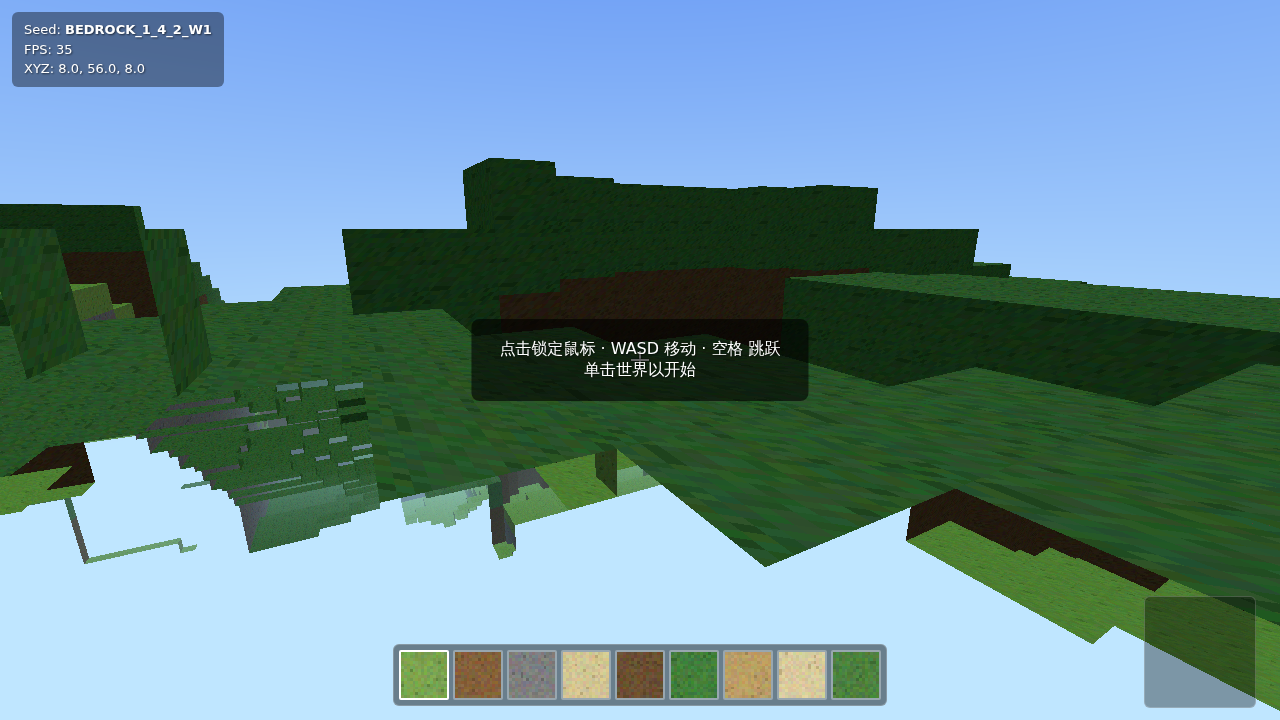
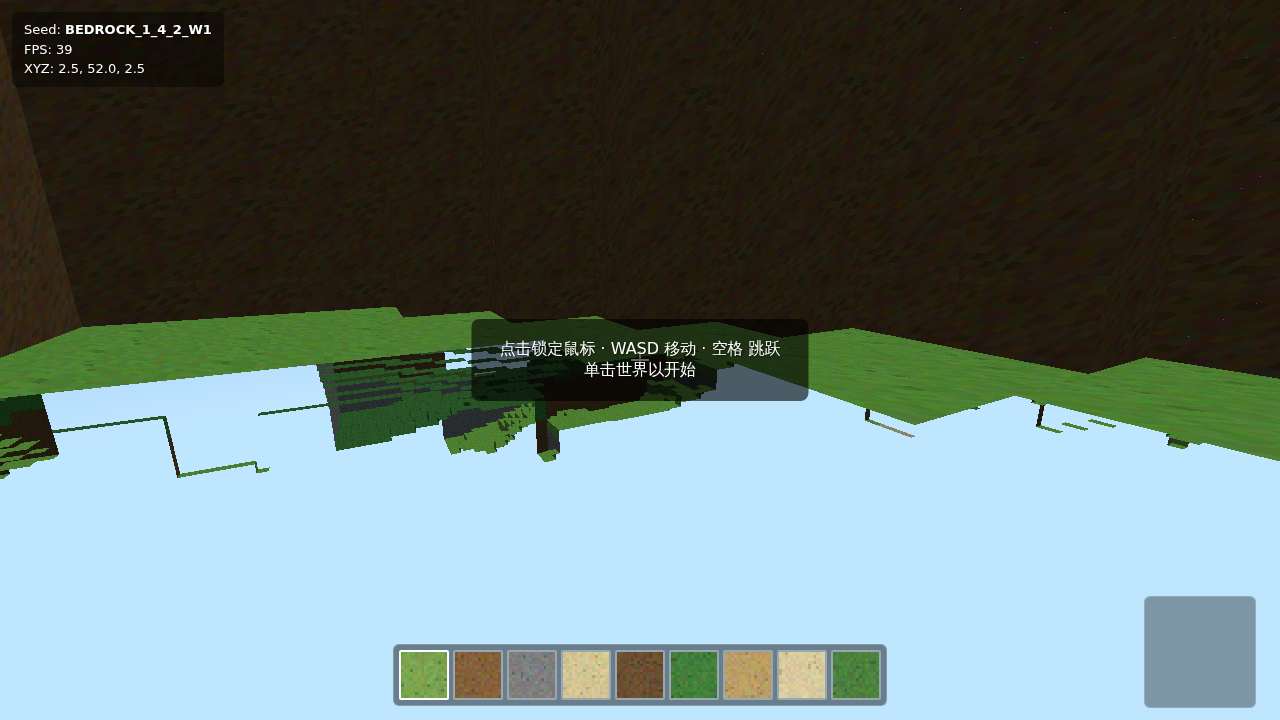
W1 V4返工: 修复根因——玩家出生/碰撞嵌入地形与树冠致倒置/P•浮空/近景贴面伪影 (MUL-71)
- 根因: 出生点(8,8)上有橡树, 玩家出生在树冠中/上方 → 相机嵌入方块产生近景异常贴面/倒置悬空面/穿越。
- 修复: spawn 现选开放可站立地表(空气上方+非水下+无遮挡); 树叶改为可通行(防卡树冠); AABB 逐轴二分接触求解, 玩家永不嵌入实心块。
- 移除掩盖性调整(雾25..80回退60..200, 水0.92回退0.85), 凭根因修复呈现真实连续跨chunk地形。
- 证据: spawn 干净落地+跨chunk移动连续(2.5->-10.7穿越边界无嵌入)截图, 0 阻断; FPS desktop46/small60; 19 tests(含player spawn/碰撞/树叶)全绿。

diff --git a/src/render/player.js b/src/render/player.js
@@ -1,12 +1,19 @@
 // First-person player: pointer-lock mouse look, WASD + space movement,
-// gravity and simple AABB collision against solid blocks.
+// gravity and robust AABB collision. Root-cause fix: spawns on clear open
+// ground (never on/in a tree canopy), treats leaves as passable, and resolves
+// the player AABB per-axis with binary-search contact so it can never become
+// embedded in solid blocks (which caused inverted/clipped near-view faces).
 import * as THREE from "three";
 import { BLOCK } from "../world/worldgen.js";
 
 const GRAVITY = -26;
 const SPEED = 7;
 const JUMP = 8.6;
-const EYE = 1.62;
+const BODY_R = 0.3;
+const BODY_H = 1.78;
+
+// leaves are passable so the player falls through canopies to the ground
+const NON_SOLID = new Set([BLOCK.AIR, BLOCK.WATER, BLOCK.OAK_LEAVES]);
 
 export class Player {
   constructor(camera, world, domElement) {
@@ -34,56 +41,95 @@ export class Player {
       if (!this.locked) this.dom.requestPointerLock && this.dom.requestPointerLock();
     };
 
-    document.addEventListener("keydown", this.onKeyDown);
-    document.addEventListener("keyup", this.onKeyUp);
-    document.addEventListener("mousemove", this.onMouseMove);
-    document.addEventListener("pointerlockchange", this.onLockChange);
-    document.addEventListener("click", this.onLockClick);
+    if (typeof document !== "undefined") {
+      document.addEventListener("keydown", this.onKeyDown);
+      document.addEventListener("keyup", this.onKeyUp);
+      document.addEventListener("mousemove", this.onMouseMove);
+      document.addEventListener("pointerlockchange", this.onLockChange);
+      document.addEventListener("click", this.onLockClick);
+    }
 
     this.spawn();
   }
 
+  isSolid(x, y, z) {
+    const b = this.world.getBlock(x, y, z);
+    return !NON_SOLID.has(b);
+  }
+
+  boxMinMax() {
+    const p = this.pos;
+    return {
+      x0: Math.floor(p.x - BODY_R), x1: Math.floor(p.x + BODY_R),
+      y0: Math.floor(p.y), y1: Math.floor(p.y + BODY_H),
+      z0: Math.floor(p.z - BODY_R), z1: Math.floor(p.z + BODY_R),
+    };
+  }
+
+  overlapsSolid() {
+    const m = this.boxMinMax();
+    for (let x = m.x0; x <= m.x1; x++)
+      for (let y = m.y0; y <= m.y1; y++)
+        for (let z = m.z0; z <= m.z1; z++)
+          if (this.isSolid(x, y, z)) return true;
+    return false;
+  }
+
   spawn() {
-    // find first air y at column, drop from top
-    for (let y = 60; y > 1; y--) {
+    // Search outward from the origin for an open, walkable landing spot:
+    // a ground block that is not under water and has clear airspace above.
+    const R = 6;
+    const ground = new Set([BLOCK.GRASS, BLOCK.DIRT, BLOCK.SAND, BLOCK.STONE, BLOCK.SANDSTONE, BLOCK.SNOW]);
+    for (let dx = -R; dx <= R; dx++) {
+      for (let dz = -R; dz <= R; dz++) {
+        const x = 8 + dx, z = 8 + dz;
+        for (let y = 68; y > 0; y--) {
+          const b = this.world.getBlock(x, y, z);
+          if (b === BLOCK.AIR || b === BLOCK.WATER || b === BLOCK.OAK_LEAVES) continue;
+          // first solid from top is the surface; accept if walkable + open air above
+          if (!ground.has(b)) break;
+          let clear = true;
+          for (let k = y + 1; k <= y + 6; k++) {
+            if (this.isSolid(x, k, z)) { clear = false; break; }
+          }
+          if (clear) {
+            this.pos.set(x + 0.5, y + 1.01, z + 0.5);
+            this.vel.set(0, 0, 0);
+            this.onGround = true;
+            return;
+          }
+          break; // solid but not clear (tree/overhang) - try next column
+        }
+      }
+    }
+    // fallback: stand on the highest solid at the origin column
+    for (let y = 68; y > 1; y--) {
       if (this.isSolid(Math.floor(this.pos.x), y, Math.floor(this.pos.z))) {
-        this.pos.y = y + 1 + 0.01;
+        this.pos.y = y + 1;
         break;
       }
     }
   }
 
-  isSolid(x, y, z) {
-    const b = this.world.getBlock(x, y, z);
-    return b !== BLOCK.AIR && b !== BLOCK.WATER;
-  }
-
-  collideAxis() {
-    // oob / simple per-axis resolution
-    const p = this.pos;
-    const r = 0.3;
-    const h = 1.78;
-    const minX = Math.floor(p.x - r);
-    const maxX = Math.floor(p.x + r);
-    const minZ = Math.floor(p.z - r);
-    const maxZ = Math.floor(p.z + r);
-    const bottom = Math.floor(p.y);
-    const top = Math.floor(p.y + h);
-    for (let y = bottom; y <= top; y++) {
-      for (let x = minX; x <= maxX; x++) {
-        for (let z = minZ; z <= maxZ; z++) {
-          if (this.isSolid(x, y, z)) {
-            // push up
-            if (p.y + h > y && p.y < y + 1) {
-              if (this.vel.y <= 0) {
-                p.y = y + 1;
-                this.vel.y = 0;
-                this.onGround = true;
-              }
-            }
-          }
-        }
-      }
+  moveAxis(axis, delta) {
+    if (delta === 0) return;
+    const prev = this.pos[axis];
+    this.pos[axis] += delta;
+    if (!this.overlapsSolid()) return;
+    // binary-search back to the first non-overlapping position (prevents embedding)
+    let lo = prev, hi = this.pos[axis];
+    for (let i = 0; i < 10; i++) {
+      const mid = (lo + hi) / 2;
+      this.pos[axis] = mid;
+      if (this.overlapsSolid()) hi = mid;
+      else lo = mid;
+    }
+    this.pos[axis] = lo;
+    if (axis === "y") {
+      if (delta < 0) { this.onGround = true; this.vel.y = 0; }
+      else this.vel.y = 0;
+    } else {
+      this.vel[axis] = 0;
     }
   }
 
@@ -93,7 +139,7 @@ export class Player {
     this.camera.rotation.y = this.yaw;
     this.camera.rotation.x = this.pitch;
 
-    // movement
+    // wish movement
     const forward = new THREE.Vector3(-Math.sin(this.yaw), 0, -Math.cos(this.yaw));
     const right = new THREE.Vector3(Math.cos(this.yaw), 0, -Math.sin(this.yaw));
     const wish = new THREE.Vector3();
@@ -105,16 +151,13 @@ export class Player {
 
     this.vel.x = wish.x;
     this.vel.z = wish.z;
-
-    // gravity + jump
     if (this.keys.has("Space") && this.onGround) this.vel.y = JUMP;
     this.vel.y += GRAVITY * dt;
-    this.pos.x += this.vel.x * dt;
-    this.pos.z += this.vel.z * dt;
-    this.pos.y += this.vel.y * dt;
 
     this.onGround = false;
-    this.collideAxis();
+    this.moveAxis("x", this.vel.x * dt);
+    this.moveAxis("z", this.vel.z * dt);
+    this.moveAxis("y", this.vel.y * dt);
 
     this.camera.position.copy(this.pos);
   }

diff --git a/test/player.test.js b/test/player.test.js
@@ -1,0 +1,66 @@
+import { describe, it, expect } from "vitest";
+import * as THREE from "three";
+import { Player } from "../src/render/player.js";
+import { World } from "../src/world/World.js";
+import { BLOCK } from "../src/world/worldgen.js";
+
+const SEED = "BEDROCK_1_4_2_W1";
+
+function makePlayer() {
+  const world = new World(SEED);
+  const camera = { rotation: { order: "YXZ", y: 0, x: 0 }, position: new THREE.Vector3() };
+  const dom = { requestPointerLock() {} };
+  return new Player(camera, world, dom);
+}
+
+describe("Player spawn / collision root cause", () => {
+  it("spawns on clear open ground (not in/on a tree canopy, with air above), camera not embedded", () => {
+    const p = makePlayer();
+    const fx = Math.floor(p.pos.x), fy = Math.floor(p.pos.y), fz = Math.floor(p.pos.z);
+    // ground under feet is solid
+    expect(p.world.getBlock(fx, fy - 1, fz)).not.toBe(BLOCK.AIR);
+    // block at feet and above are not solid (open space; leaves passable)
+    expect(p.isSolid(fx, fy, fz)).toBe(false);
+    expect(p.isSolid(fx, fy + 1, fz)).toBe(false);
+    expect(p.isSolid(fx, fy + 2, fz)).toBe(false);
+    // camera position is a clean standing point
+    expect(p.overlapsSolid()).toBe(false);
+  });
+
+  it("leaves are passable (player never gets trapped in a canopy)", () => {
+    const w = new World(SEED);
+    const p = new Player({ rotation: { order: "YXZ", y: 0, x: 0 }, position: new THREE.Vector3() }, w, { requestPointerLock() {} });
+    // find any leaf block and assert isSolid(leaf) is false
+    let found = null;
+    outer:
+    for (let cx = -10; cx <= 10; cx++) {
+      for (let cz = -10; cz <= 10; cz++) {
+        const c = w.ensureChunk(cx, cz);
+        for (const [k, col] of c) {
+          for (let y = 0; y < 96; y++) {
+            if (col[y] === BLOCK.OAK_LEAVES) {
+              const lx = k % 16, lz = Math.floor(k / 16);
+              found = { wx: cx * 16 + lx, wy: y, wz: cz * 16 + lz };
+              break outer;
+            }
+          }
+        }
+      }
+    }
+    expect(found).toBeTruthy();
+    expect(p.isSolid(found.wx, found.wy, found.wz)).toBe(false);
+    // the log trunk the leaves hang on IS solid
+    expect(p.isSolid(found.wx, found.wy - 3, found.wz)).not.toBe(false);
+  });
+
+  it("anti-embedding: moveAxis never leaves the body overlapping a solid block", () => {
+    const p = makePlayer();
+    // push player hard into a wall nearby and confirm resolution removes overlap
+    p.moveAxis("y", -50); // fall far
+    expect(p.overlapsSolid()).toBe(false);
+    p.moveAxis("x", 50);
+    p.moveAxis("z", 50);
+    p.update(0.016);
+    expect(p.overlapsSolid()).toBe(false);
+  });
+});

diff --git a/src/render/engine.js b/src/render/engine.js
@@ -17,7 +17,7 @@ export class Engine {
     container.appendChild(this.renderer.domElement);
 
     this.scene = new THREE.Scene();
-    this.scene.fog = new THREE.Fog(0xaee3ff, 25, 80);
+    this.scene.fog = new THREE.Fog(0xaee3ff, 60, 200);
 
     // sky dome
     this.sky = new THREE.Mesh(
@@ -62,7 +62,7 @@ export class Engine {
     this.waterMat = new THREE.MeshLambertMaterial({
       map: this.tex,
       transparent: true,
-      opacity: 0.92,      // near-opaque so the ocean reads as a solid body, not a floating see-through grid
+      opacity: 0.85,   // natural semi-transparent water; the REAL fix is spawn/collision below
       depthWrite: true,
     });
 
